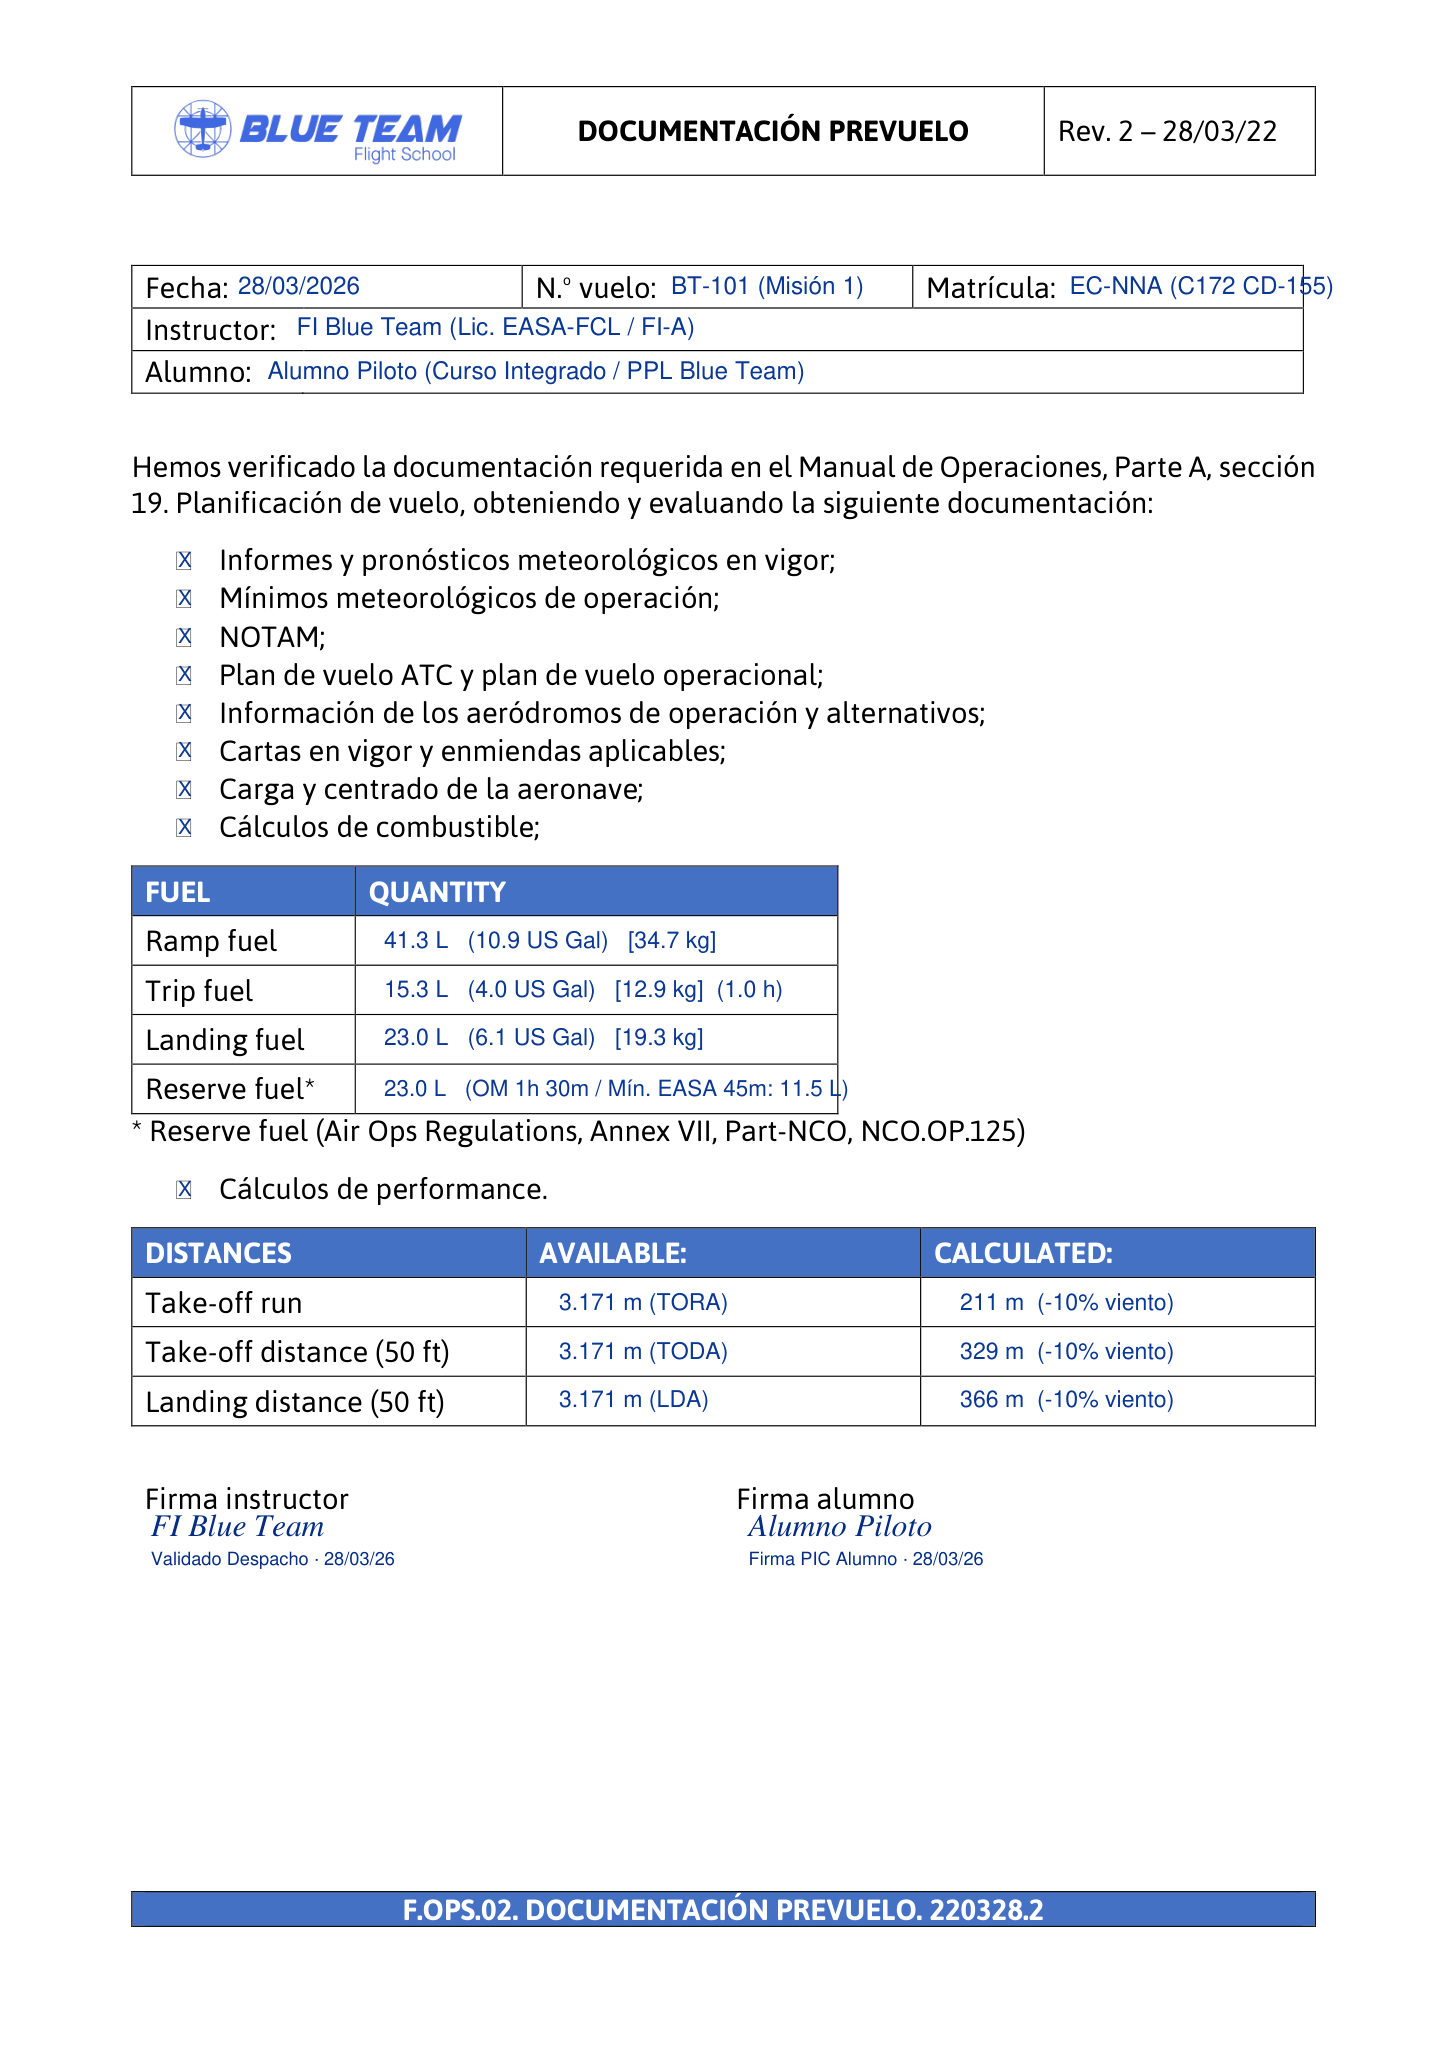
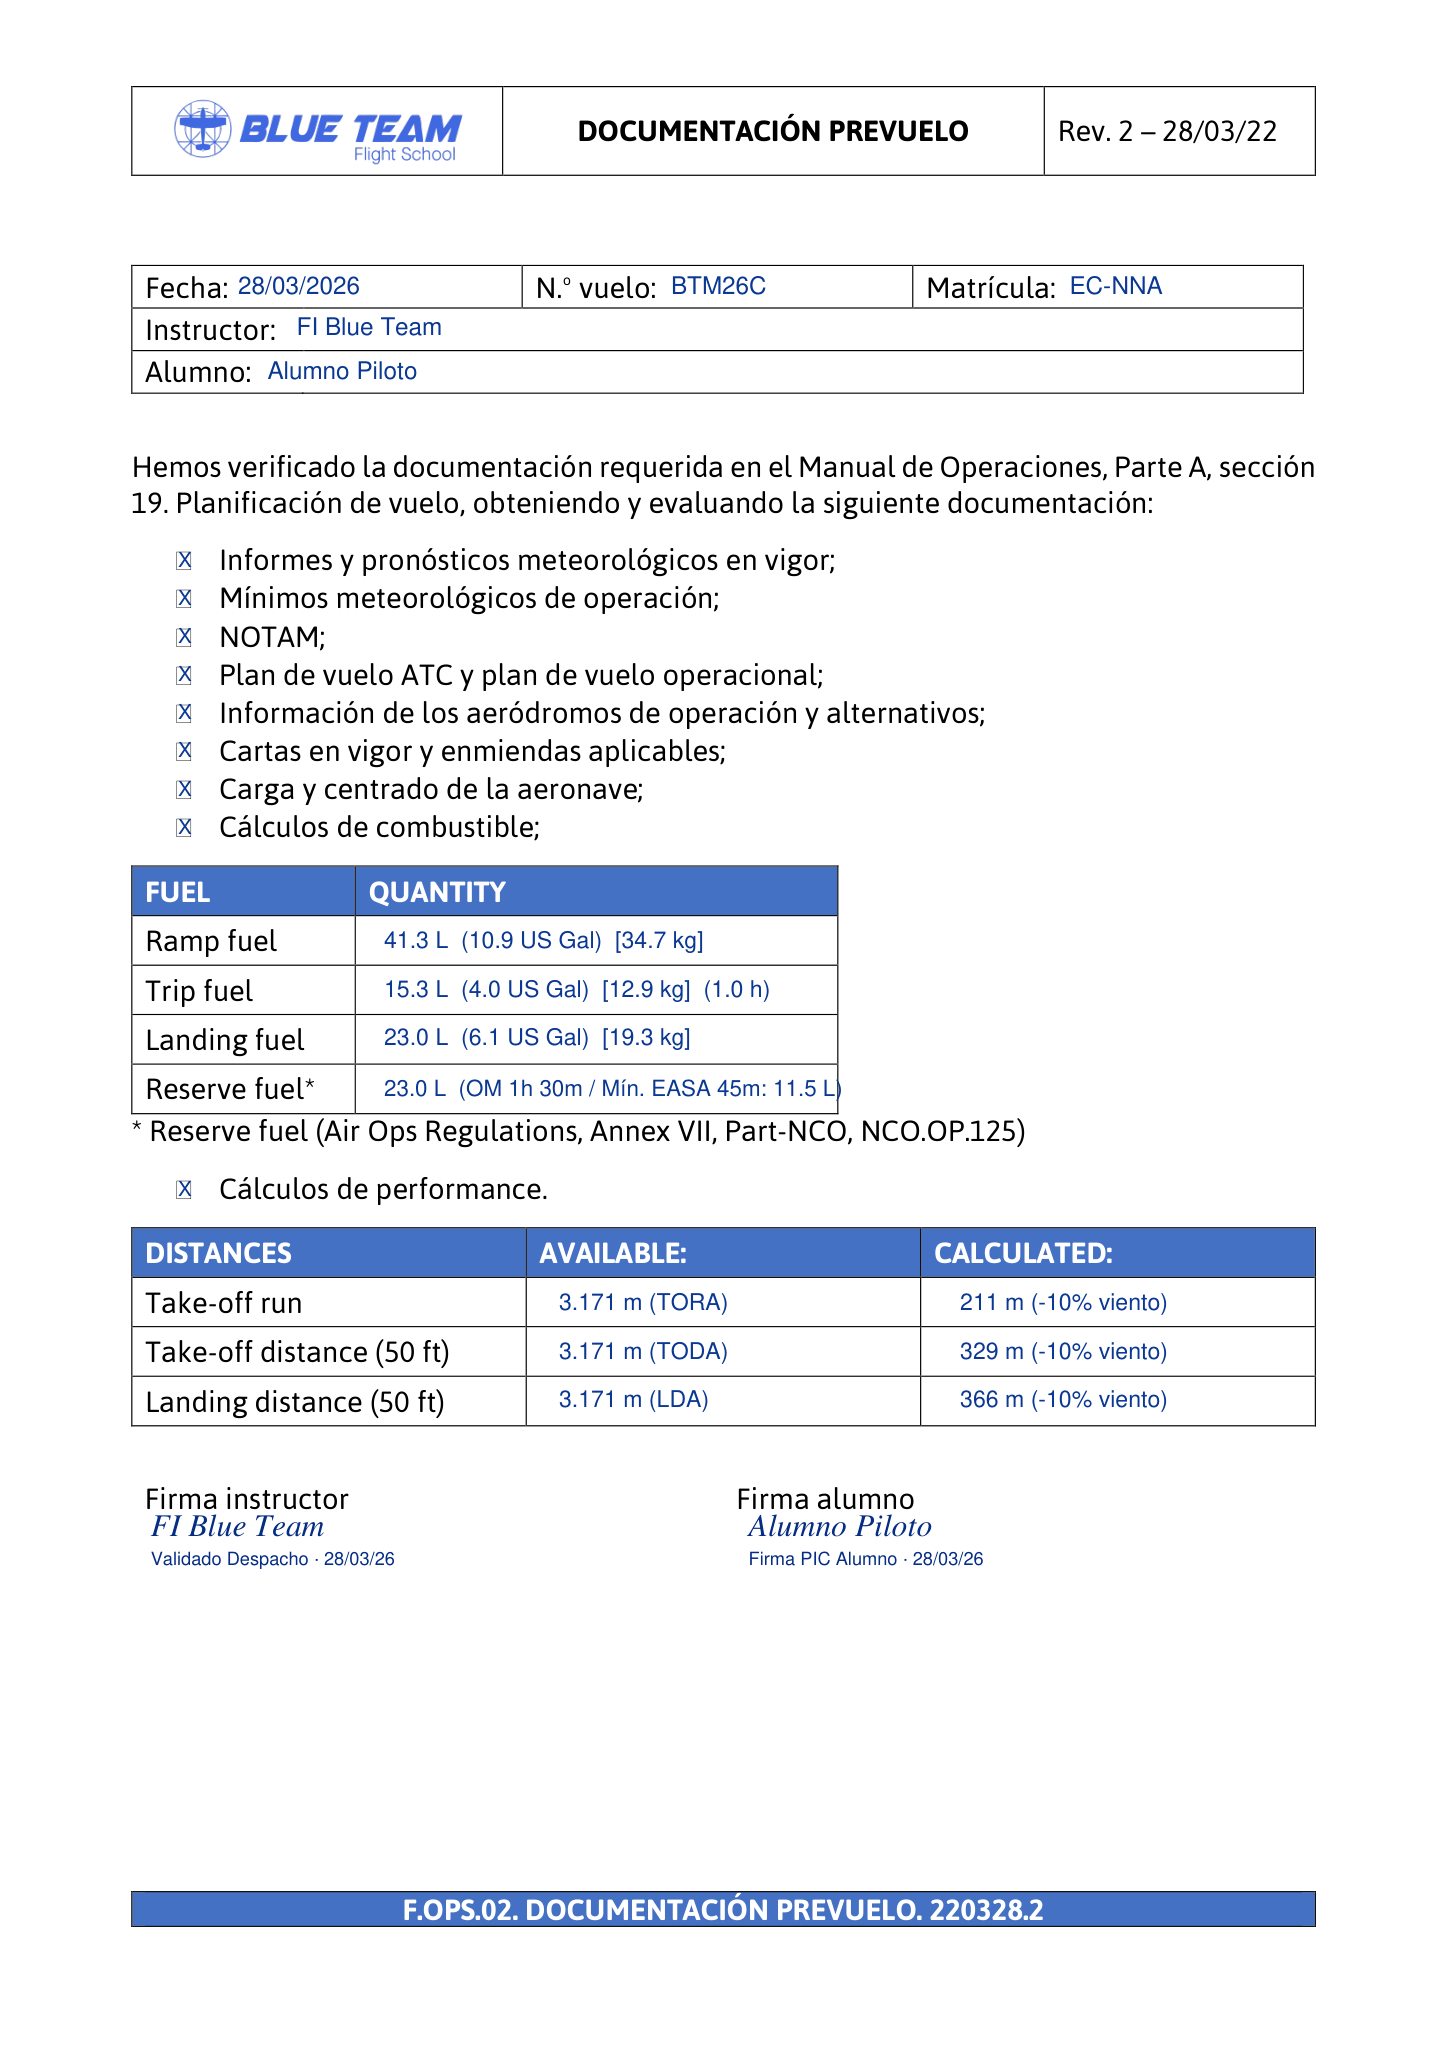
feat(course): actualizar datos exactos del F.OPS.02 rellenado (vuelo BTM26C)

diff --git a/src/features/learning/content/c172-course-data.ts b/src/features/learning/content/c172-course-data.ts
@@ -7687,7 +7687,7 @@ export const C172_LESSON_6 = {
         <div class="flex items-center justify-between pb-1 border-b border-slate-200 dark:border-slate-800 shrink-0">
           <div>
             <span class="font-bold text-[#0B2E59] dark:text-sky-300 uppercase tracking-wider text-xs sm:text-sm block">F.OPS.02 · MODELO CUMPLIMENTADO</span>
-            <span class="text-[10px] text-slate-500 font-medium">Ejemplo Oficial Resuelto Misión 1 (EC-NNA)</span>
+            <span class="text-[10px] text-slate-500 font-medium">Vuelo BTM26C · EC-NNA (Despacho Prevuelo)</span>
           </div>
           <a
             href="/images/c172/f-ops-02-ejemplo-rellenado.pdf"
